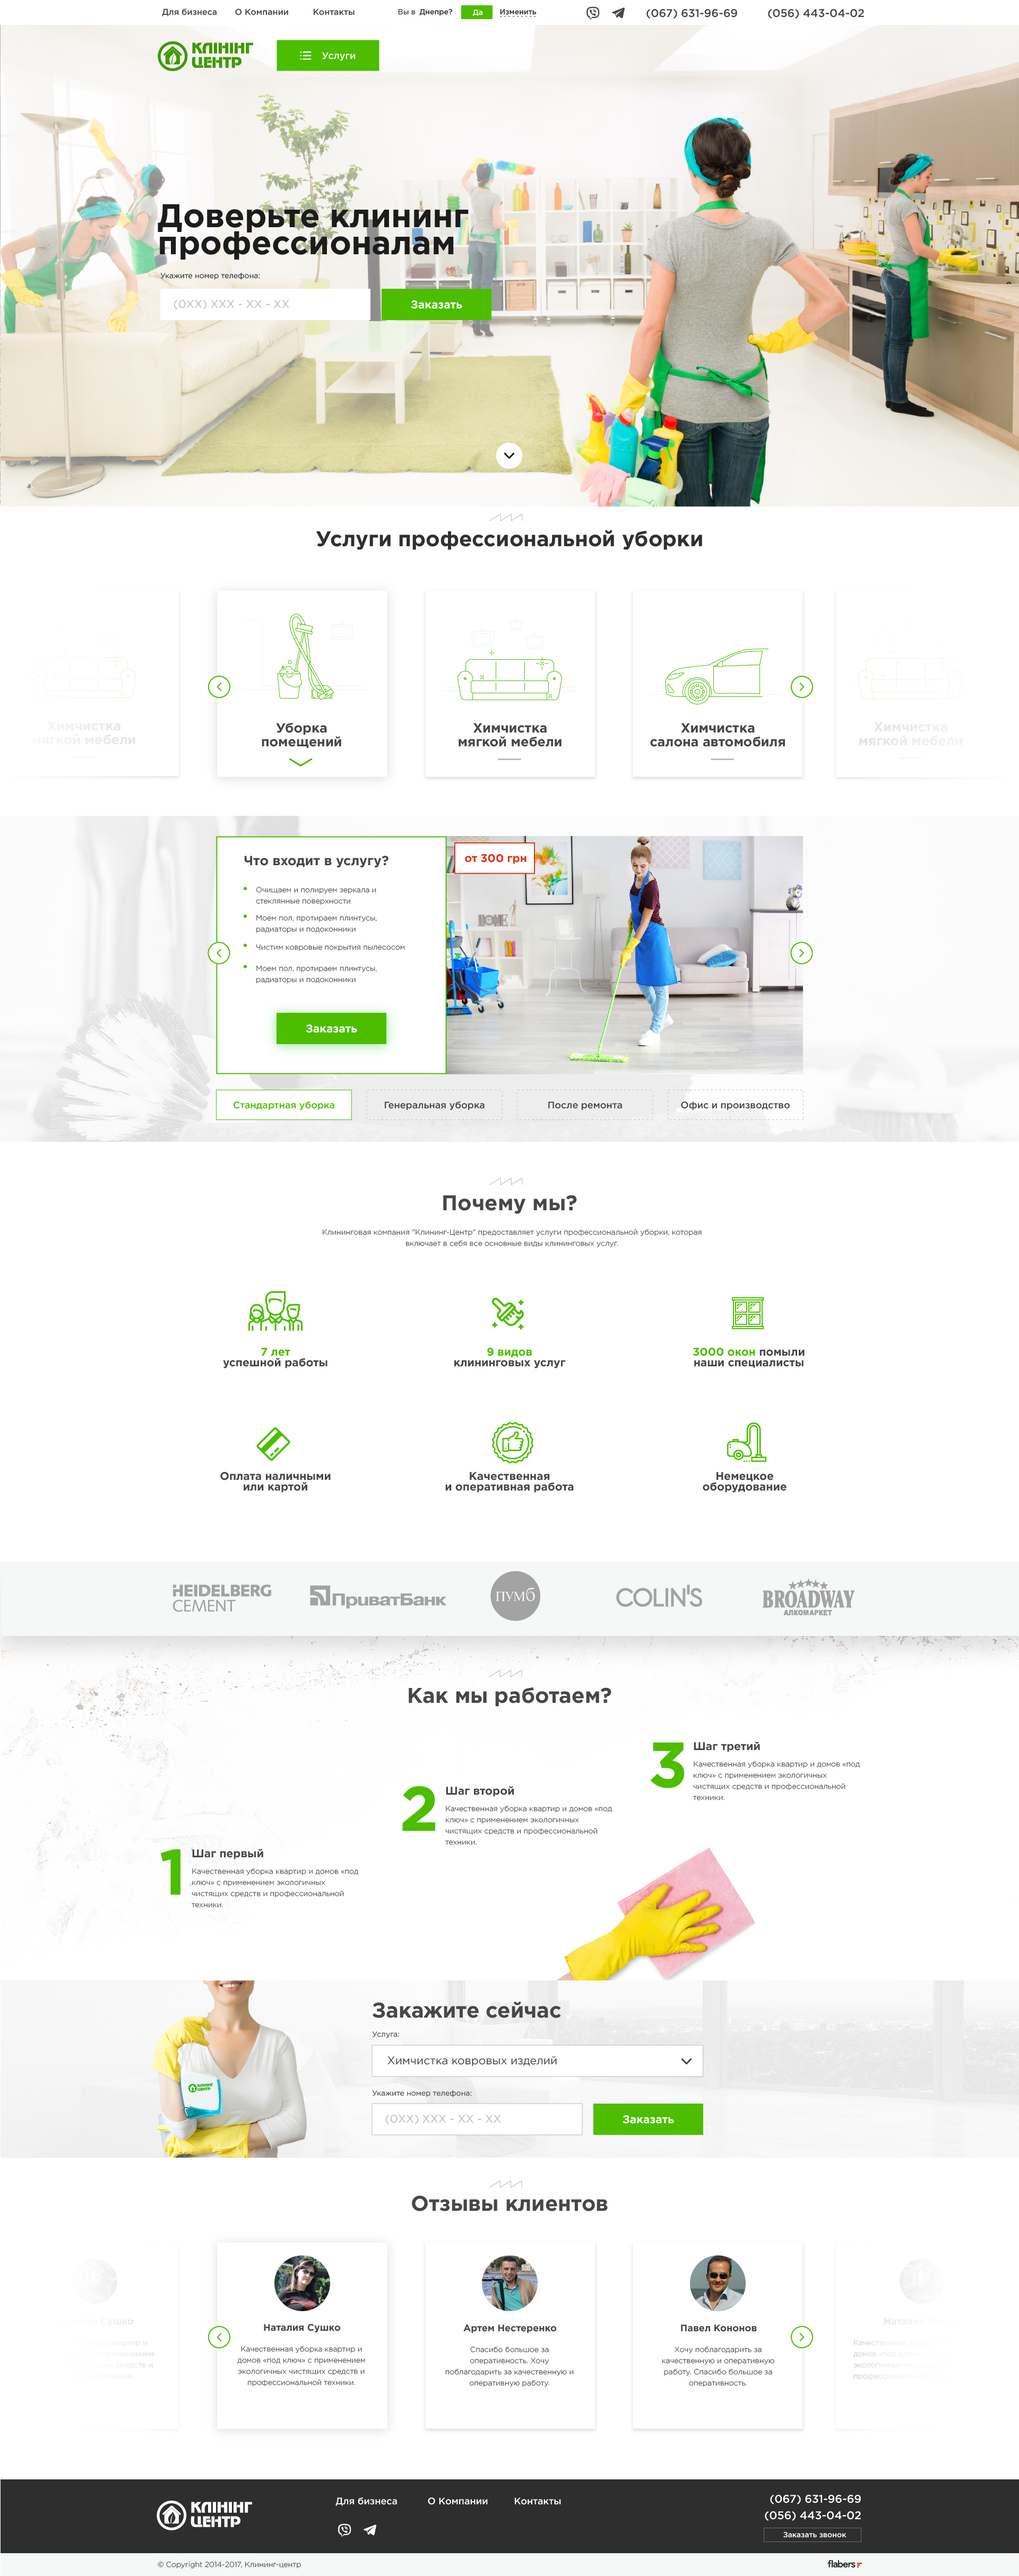
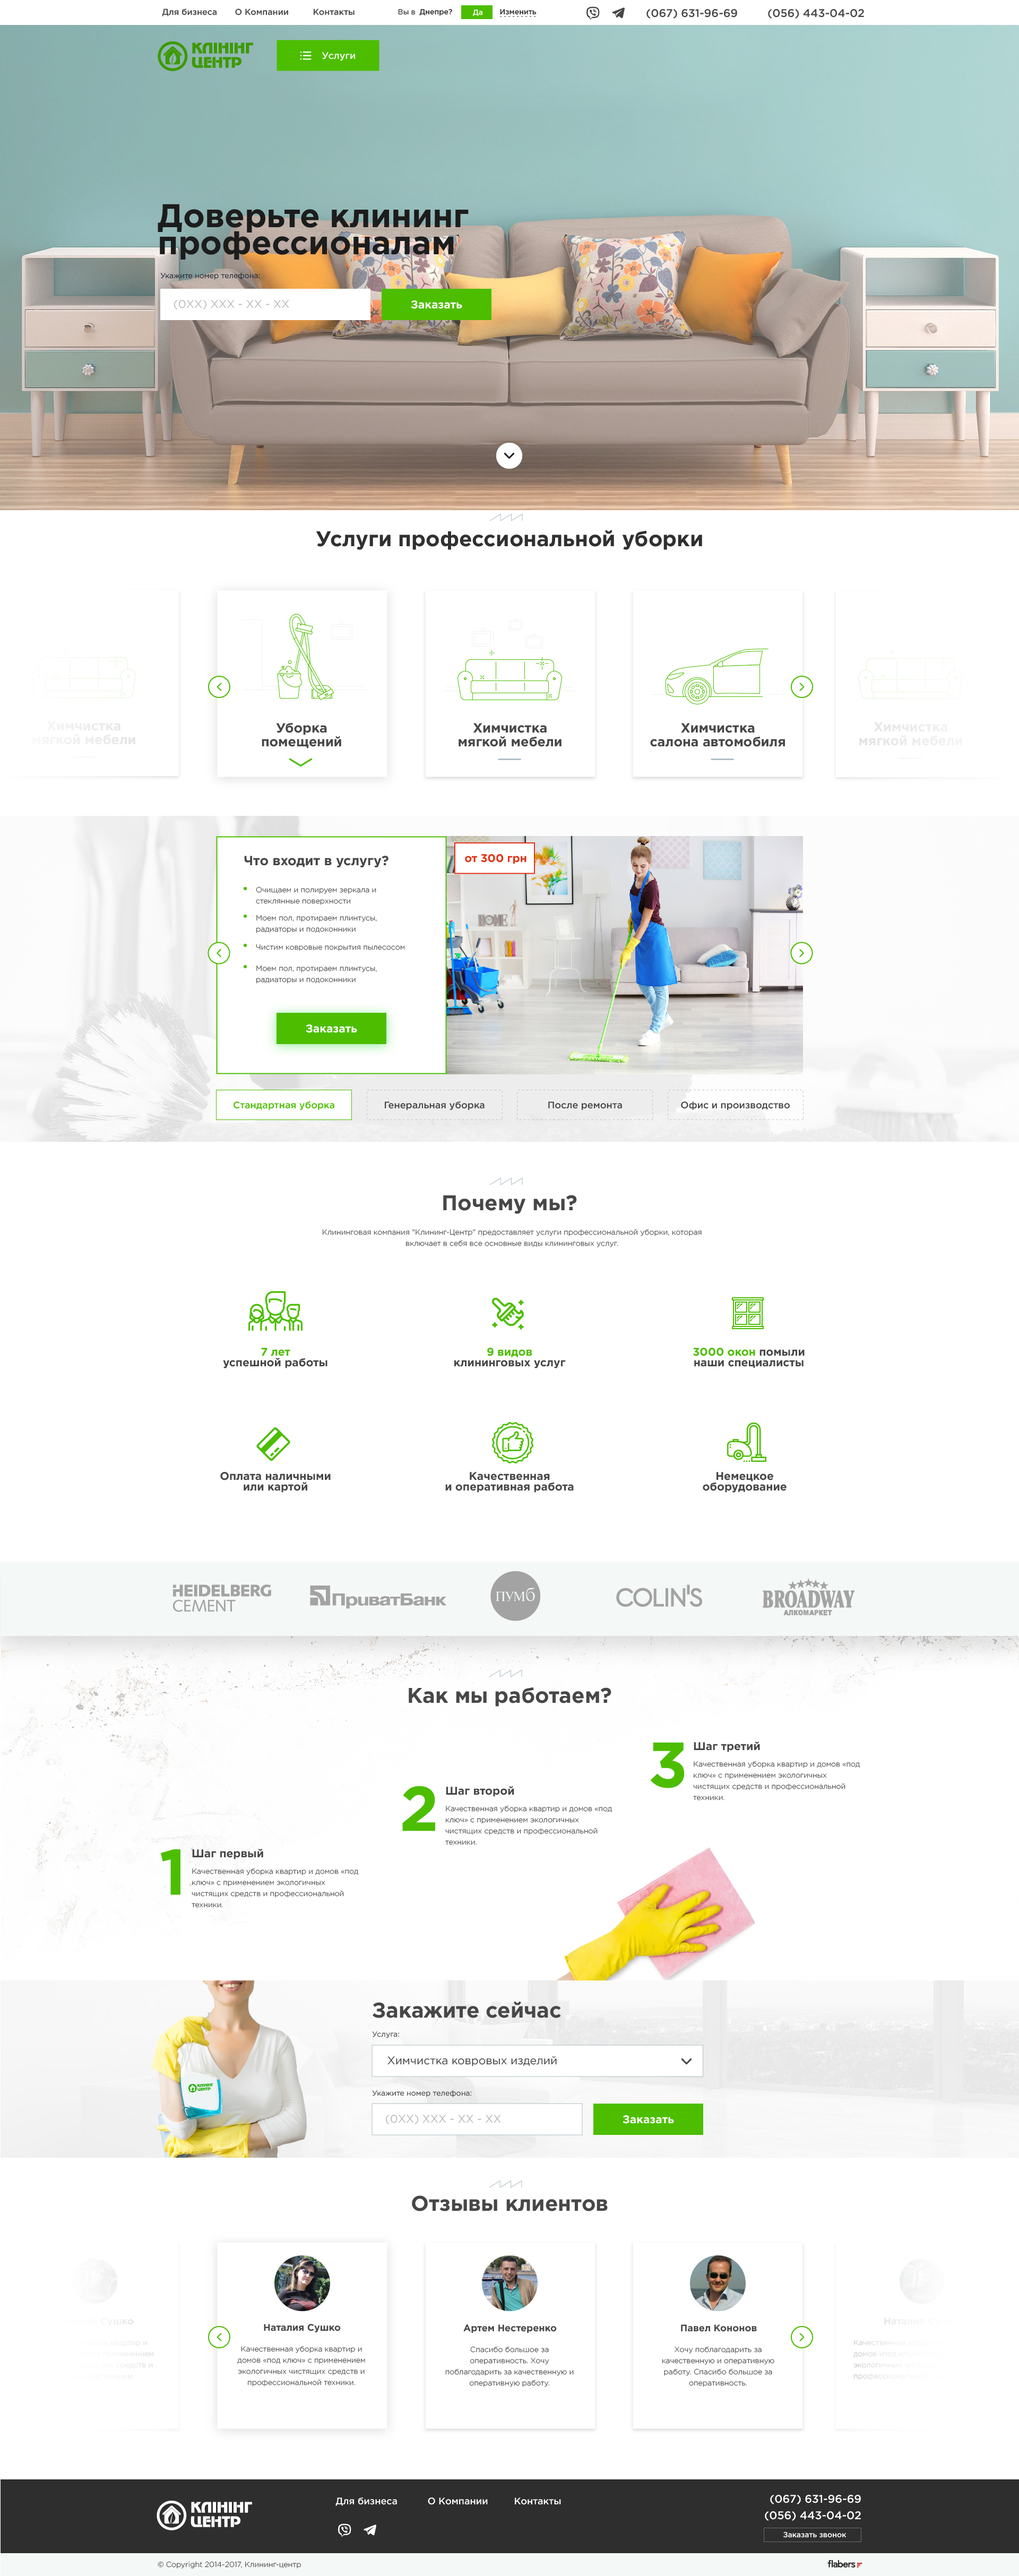
123

Changed region(s): [[0.0, 0.0, 1.0, 0.2178]]

diff --git a/portfolio/cleanc/css/project.css b/portfolio/cleanc/css/project.css
@@ -17,7 +17,7 @@ img {
 }
 
 .index-page {
-  background:url(../img/home.jpg) no-repeat top center;
+  background:url(../img/home1.jpg) no-repeat top center;
   height: 4853px;
   /*height: var(--index-height);*/
 }
@@ -48,6 +48,30 @@ img {
 
 .index-page6 {
   background:url(../img/home6.jpg) no-repeat top center;
+  height: 4853px;
+  /*height: var(--page-height);*/
+}
+
+.index-page7 {
+  background:url(../img/home7.jpg) no-repeat top center;
+  height: 4853px;
+  /*height: var(--cat-height);*/
+}
+
+.index-page8 {
+  background:url(../img/home8.jpg) no-repeat top center;
+  height: 4853px;
+  /*height: var(--page-height);*/
+}
+
+.index-page9 {
+  background:url(../img/home9.jpg) no-repeat top center;
+  height: 4853px;
+  /*height: var(--page-height);*/
+}
+
+.index-page10 {
+  background:url(../img/home10.jpg) no-repeat top center;
   height: 4853px;
   /*height: var(--page-height);*/
 }

diff --git a/portfolio/cleanc/index9.html b/portfolio/cleanc/index9.html
@@ -6,8 +6,8 @@
   <link rel="stylesheet" href="css/project.css">
 </head>
 <body>
-  <a href="index7.html">
-    <div class="page index-page6">
+  <a href="index10.html">
+    <div class="page index-page9">
       <img src="link">
     </div>
   </a>

diff --git a/portfolio/cleanc/index10.html b/portfolio/cleanc/index10.html
@@ -6,8 +6,8 @@
   <link rel="stylesheet" href="css/project.css">
 </head>
 <body>
-  <a href="index7.html">
-    <div class="page index-page6">
+  <a href="index.html">
+    <div class="page index-page10">
       <img src="link">
     </div>
   </a>

diff --git a/portfolio/cleanc/index7.html b/portfolio/cleanc/index7.html
@@ -6,8 +6,8 @@
   <link rel="stylesheet" href="css/project.css">
 </head>
 <body>
-  <a href="index7.html">
-    <div class="page index-page6">
+  <a href="index8.html">
+    <div class="page index-page7">
       <img src="link">
     </div>
   </a>

diff --git a/portfolio/cleanc/index8.html b/portfolio/cleanc/index8.html
@@ -6,8 +6,8 @@
   <link rel="stylesheet" href="css/project.css">
 </head>
 <body>
-  <a href="index7.html">
-    <div class="page index-page6">
+  <a href="index9.html">
+    <div class="page index-page8">
       <img src="link">
     </div>
   </a>
